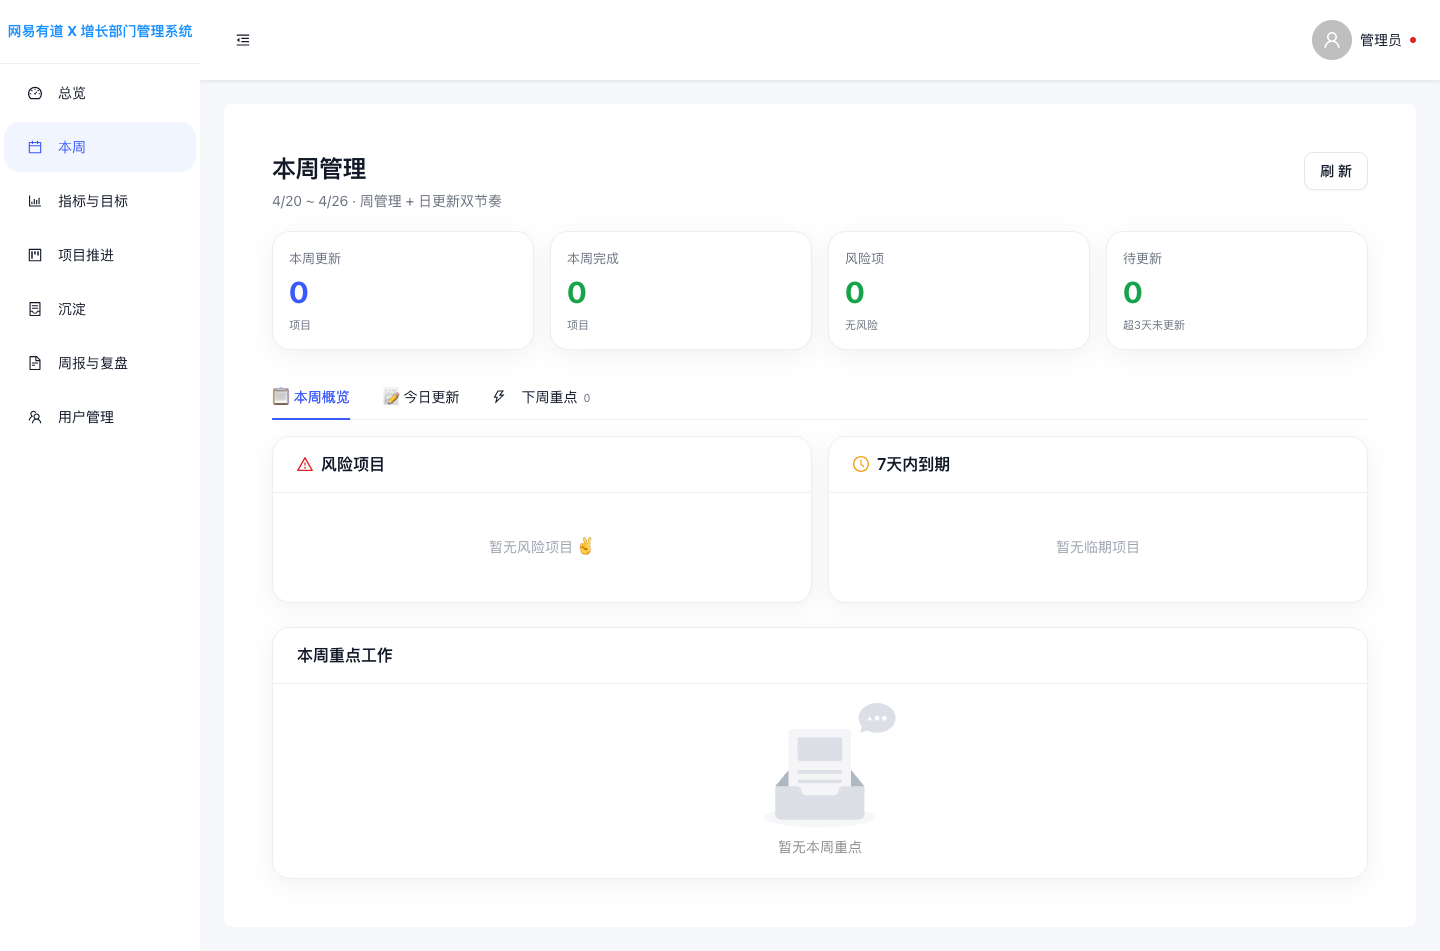
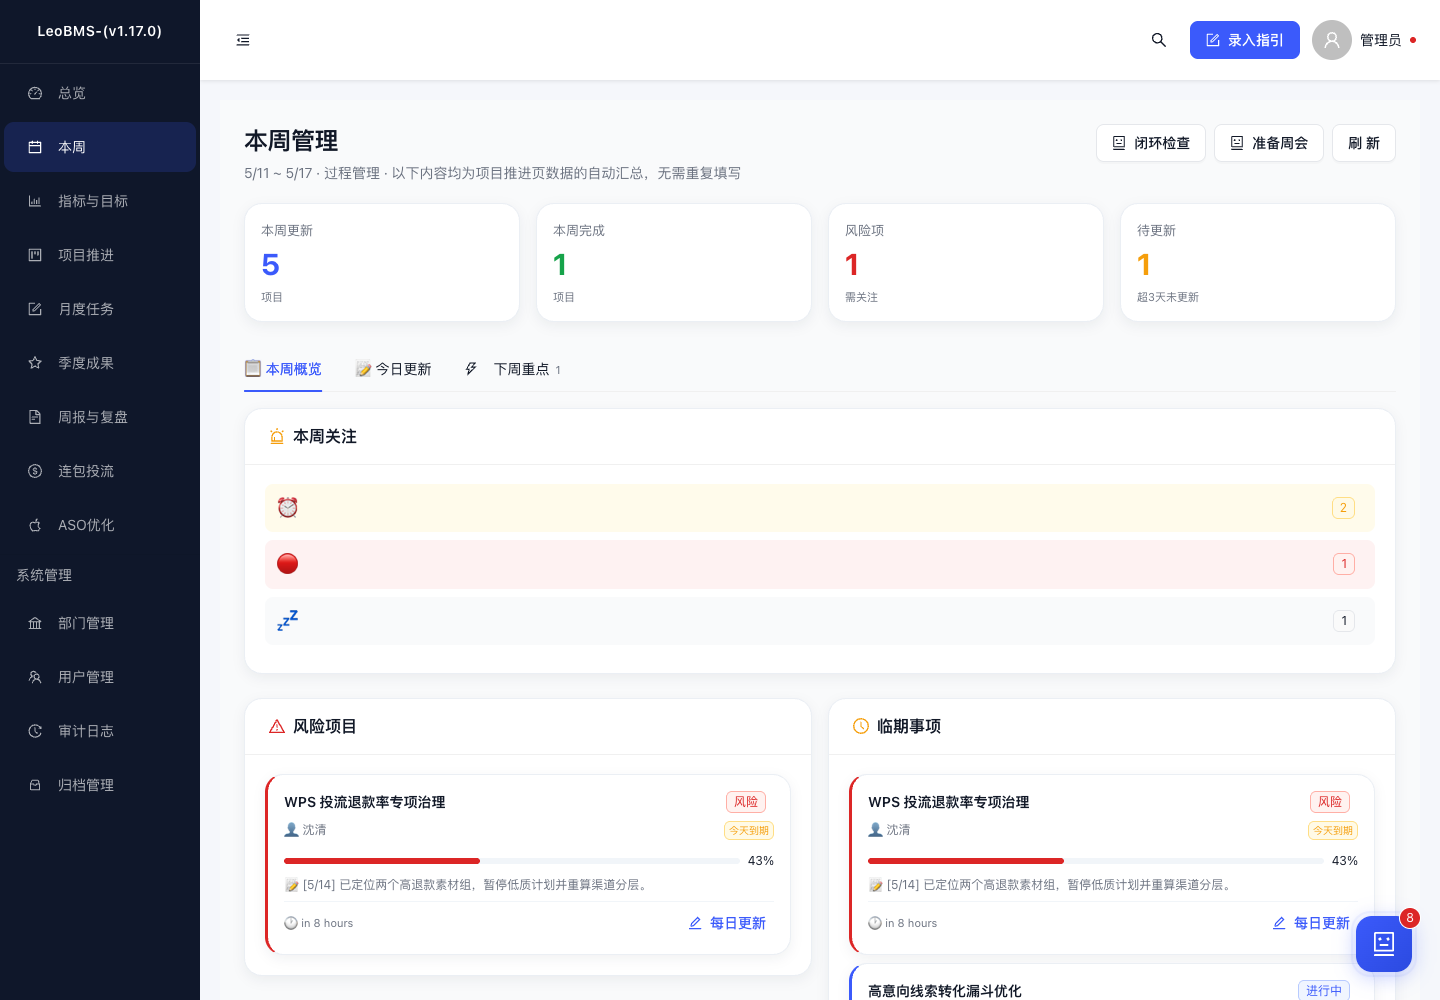
docs: refresh GitHub screenshots and English README

diff --git a/docs/README.en.md b/docs/README.en.md
@@ -1,0 +1,89 @@
+# LeoBMS - Growth Department Management System
+
+> English companion README. The primary project README remains Chinese: [Chinese README](../README.md).
+
+**Languages**: [Chinese (default)](../README.md) | English
+
+## Screenshots
+
+<table>
+  <tr>
+    <td align="center"><b>Management Dashboard</b></td>
+    <td align="center"><b>Weekly Management</b></td>
+  </tr>
+  <tr>
+    <td><img src="screenshot-dashboard.png" alt="Management Dashboard" width="520" /></td>
+    <td><img src="screenshot-week.png" alt="Weekly Management" width="520" /></td>
+  </tr>
+  <tr>
+    <td align="center"><b>Project Tracking</b></td>
+    <td align="center"><b>Weekly Report on Mobile</b></td>
+  </tr>
+  <tr>
+    <td><img src="screenshot-projects.png" alt="Project Tracking" width="520" /></td>
+    <td align="center"><img src="screenshot-weekly-mobile.png" alt="Weekly Report on Mobile" width="260" /></td>
+  </tr>
+</table>
+
+## Overview
+
+LeoBMS is a web-based operating system for a growth department. It brings quarterly KPIs, project progress, business performance, monthly tasks, quarterly achievements, AI assistance, and weekly reporting into one management workspace.
+
+The system is designed around a weekly operating rhythm: teams update project progress once, dashboards and weekly views aggregate the work automatically, and the weekly report page turns the same source data into an editable review artifact.
+
+## Tech Stack
+
+- **Frontend**: React 18, Ant Design 5, ECharts, html-to-image
+- **Backend**: Node.js, Express 4, Sequelize ORM
+- **Database**: PostgreSQL 14+ or SQLite for local development
+- **Auth**: JWT, bcrypt, token version validation
+- **AI**: DeepSeek Chat plus rule-based risk and review engines
+- **Deployment**: Docker Compose, local Mac service mode, or Cloudflare Tunnel
+
+## Quick Start
+
+### Docker
+
+```bash
+docker-compose up -d
+docker-compose ps
+```
+
+Then open:
+
+- Frontend: `http://localhost`
+- Backend API: `http://localhost:3001`
+- Health check: `http://localhost:3001/health`
+
+### Local Development
+
+```bash
+cd backend && npm install
+cd ../frontend && npm install
+cd ../frontend && npm run build
+cd ..
+./start.sh
+```
+
+Open `http://localhost:3001`.
+
+## Core Modules
+
+- **Dashboard**: current-quarter KPI completion, risk alerts, stale-project reminders, and quick operating entry points.
+- **Weekly Management**: weekly summary, today updates, risk projects, due-soon projects, and next-week focus.
+- **Project Tracking**: the single source of truth for project status, progress, risks, next actions, and decision needs.
+- **Weekly Reports**: generated review reports with editable conclusions, export support, and mobile-friendly report cards.
+- **Business Modules**: KPIs, business performance, monthly work, quarterly achievements, CPS delivery, and ASO optimization.
+- **System Management**: departments, users, audit logs, archive management, and role-based access.
+
+## Mobile Support
+
+The weekly report experience includes a dedicated mobile layout. Dense tables are converted into readable cards on phone-sized viewports, so long Chinese text no longer collapses into narrow one-character columns.
+
+## Production Notes
+
+- Do not use default passwords in production.
+- Set a strong `JWT_SECRET`.
+- Prefer PostgreSQL for production data.
+- Keep exported reports and uploaded files behind authenticated routes.
+- Use the health check endpoint before deployment handoff.

diff --git a/README.md b/README.md
@@ -2,18 +2,26 @@
 
 > 专为增长组设计的业务数据管理 Web 系统，支持五大业务模块管理、可视化仪表盘、智能周报生成和数据导入导出。
 
+**语言 / Languages**：中文（默认）｜[English](docs/README.en.md)
+
 ## 系统截图
 
 <table>
   <tr>
     <td align="center"><b>管理驾驶舱</b></td>
     <td align="center"><b>周管理</b></td>
-    <td align="center"><b>重点工作</b></td>
   </tr>
   <tr>
-    <td><img src="docs/screenshot-dashboard.png" alt="管理驾驶舱" width="400" /></td>
-    <td><img src="docs/screenshot-week.png" alt="周管理" width="400" /></td>
-    <td><img src="docs/screenshot-projects.png" alt="重点工作" width="400" /></td>
+    <td><img src="docs/screenshot-dashboard.png" alt="管理驾驶舱" width="520" /></td>
+    <td><img src="docs/screenshot-week.png" alt="周管理" width="520" /></td>
+  </tr>
+  <tr>
+    <td align="center"><b>项目推进</b></td>
+    <td align="center"><b>周报移动端</b></td>
+  </tr>
+  <tr>
+    <td><img src="docs/screenshot-projects.png" alt="项目推进" width="520" /></td>
+    <td align="center"><img src="docs/screenshot-weekly-mobile.png" alt="周报移动端" width="260" /></td>
   </tr>
 </table>
 